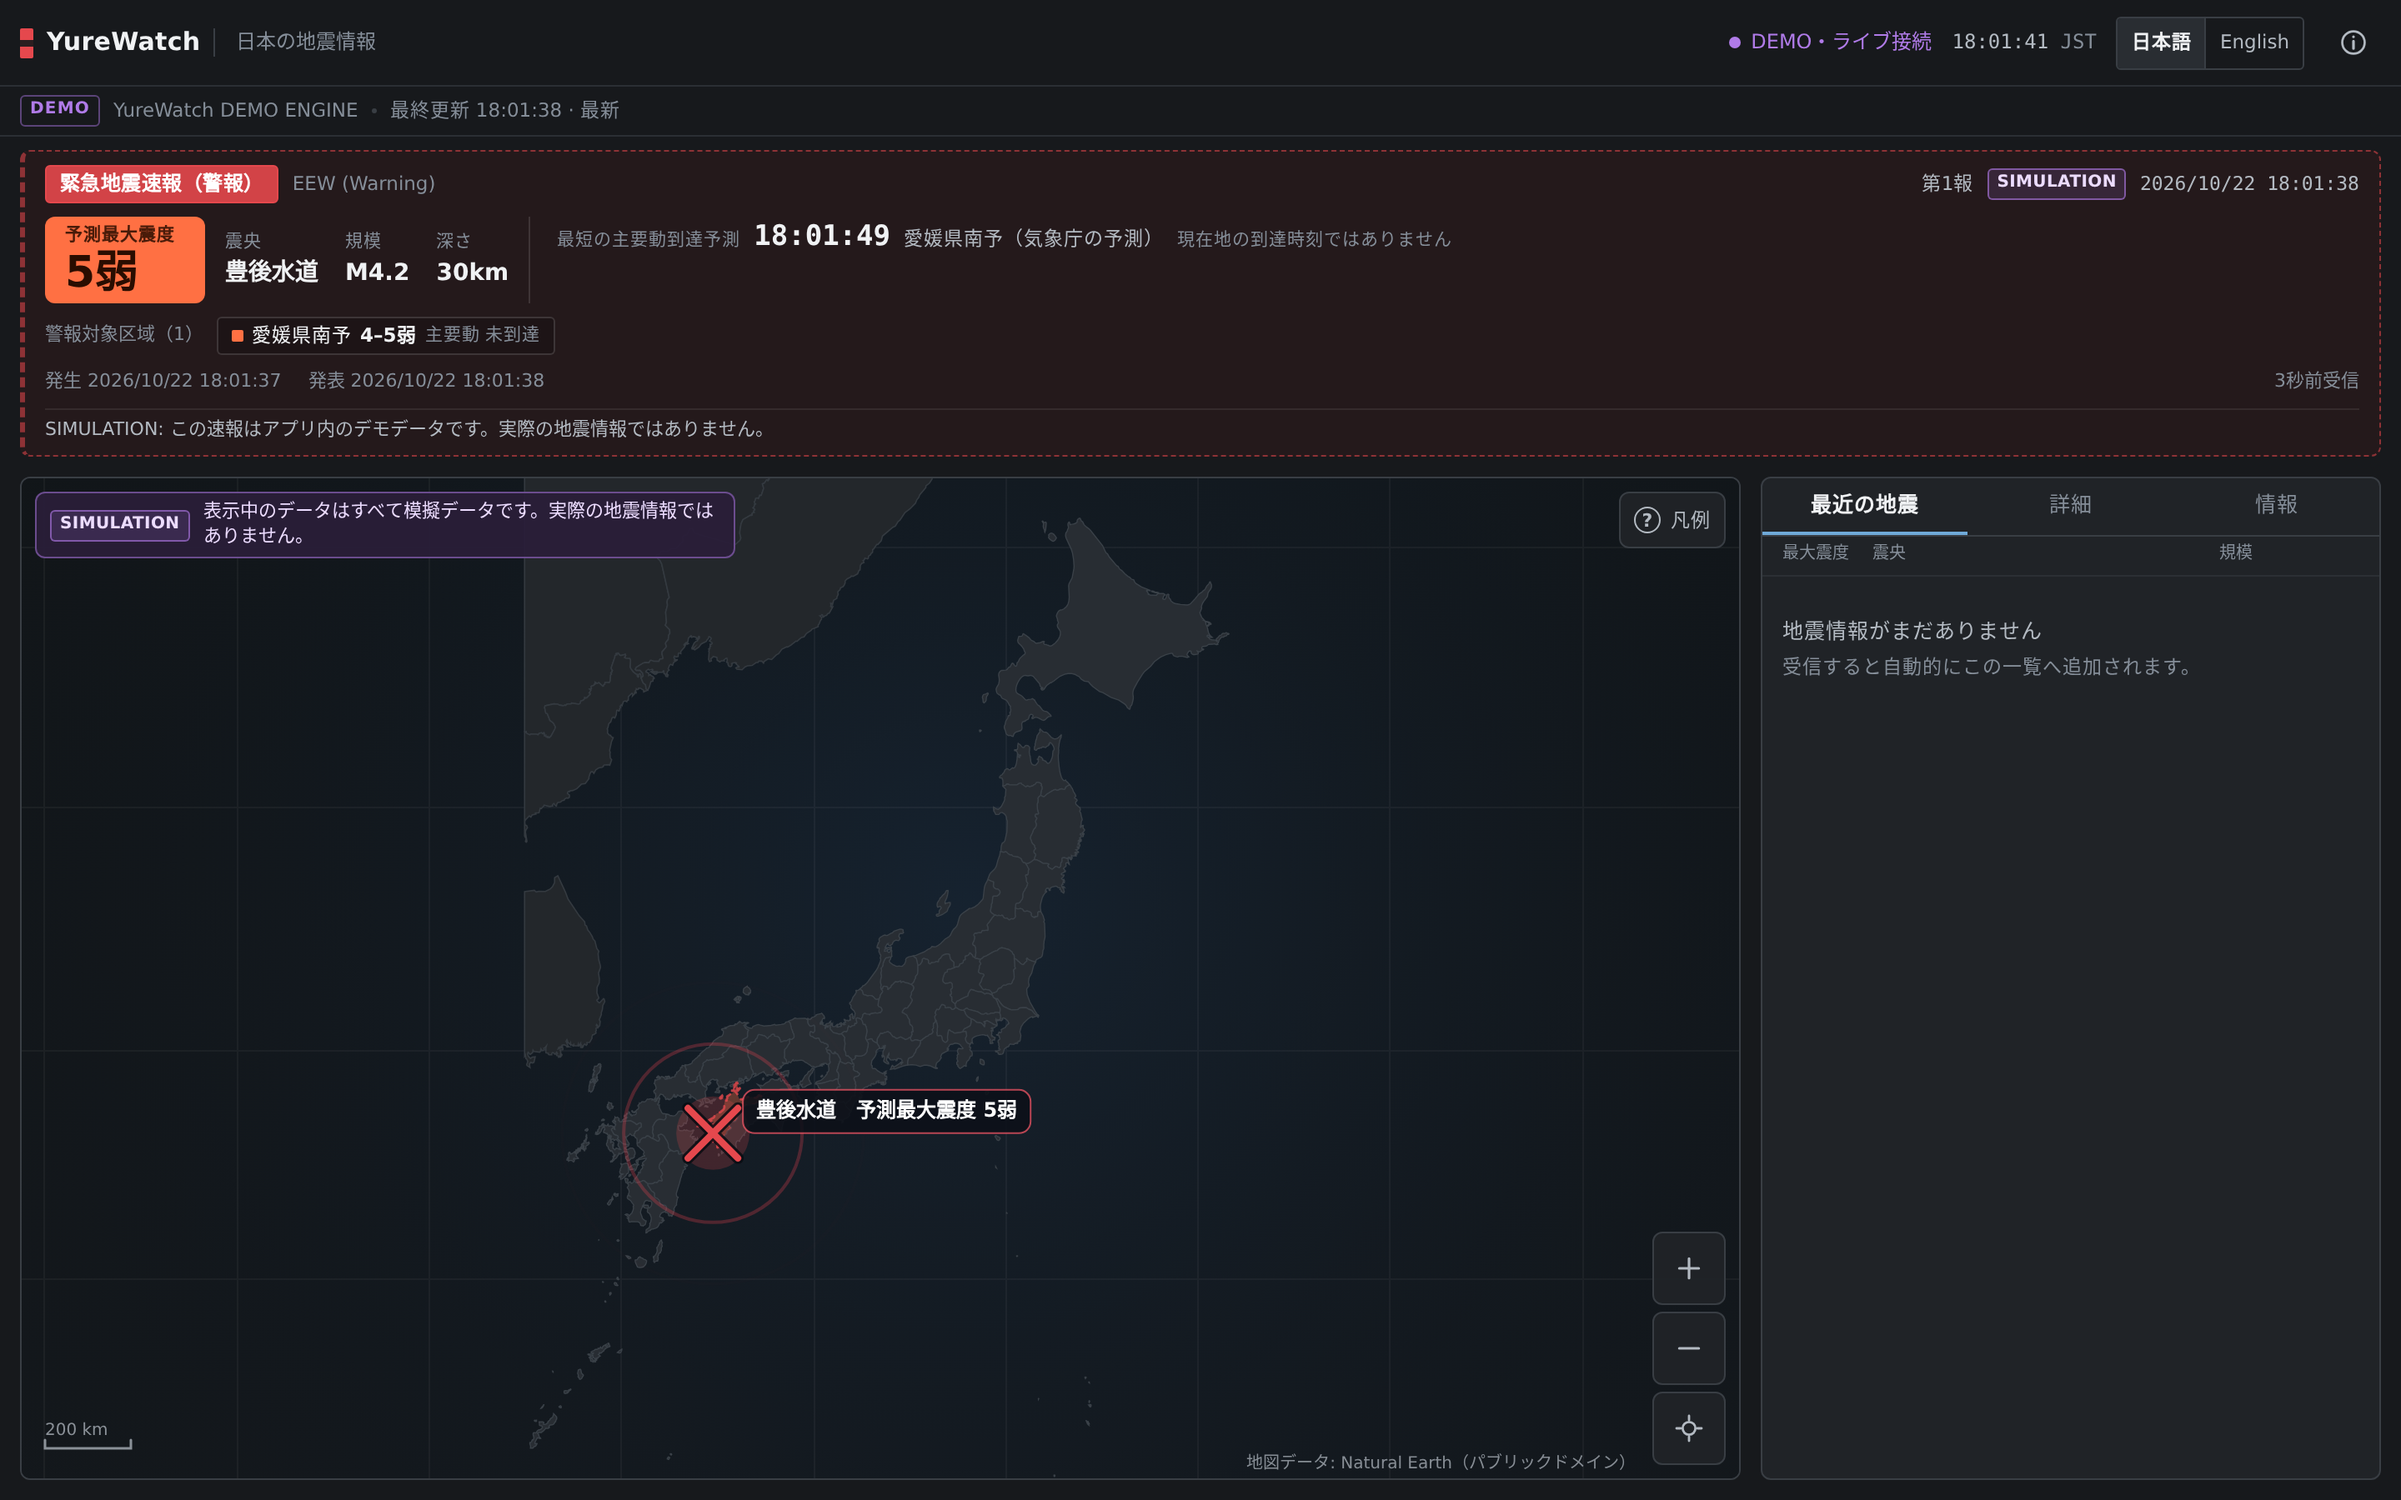
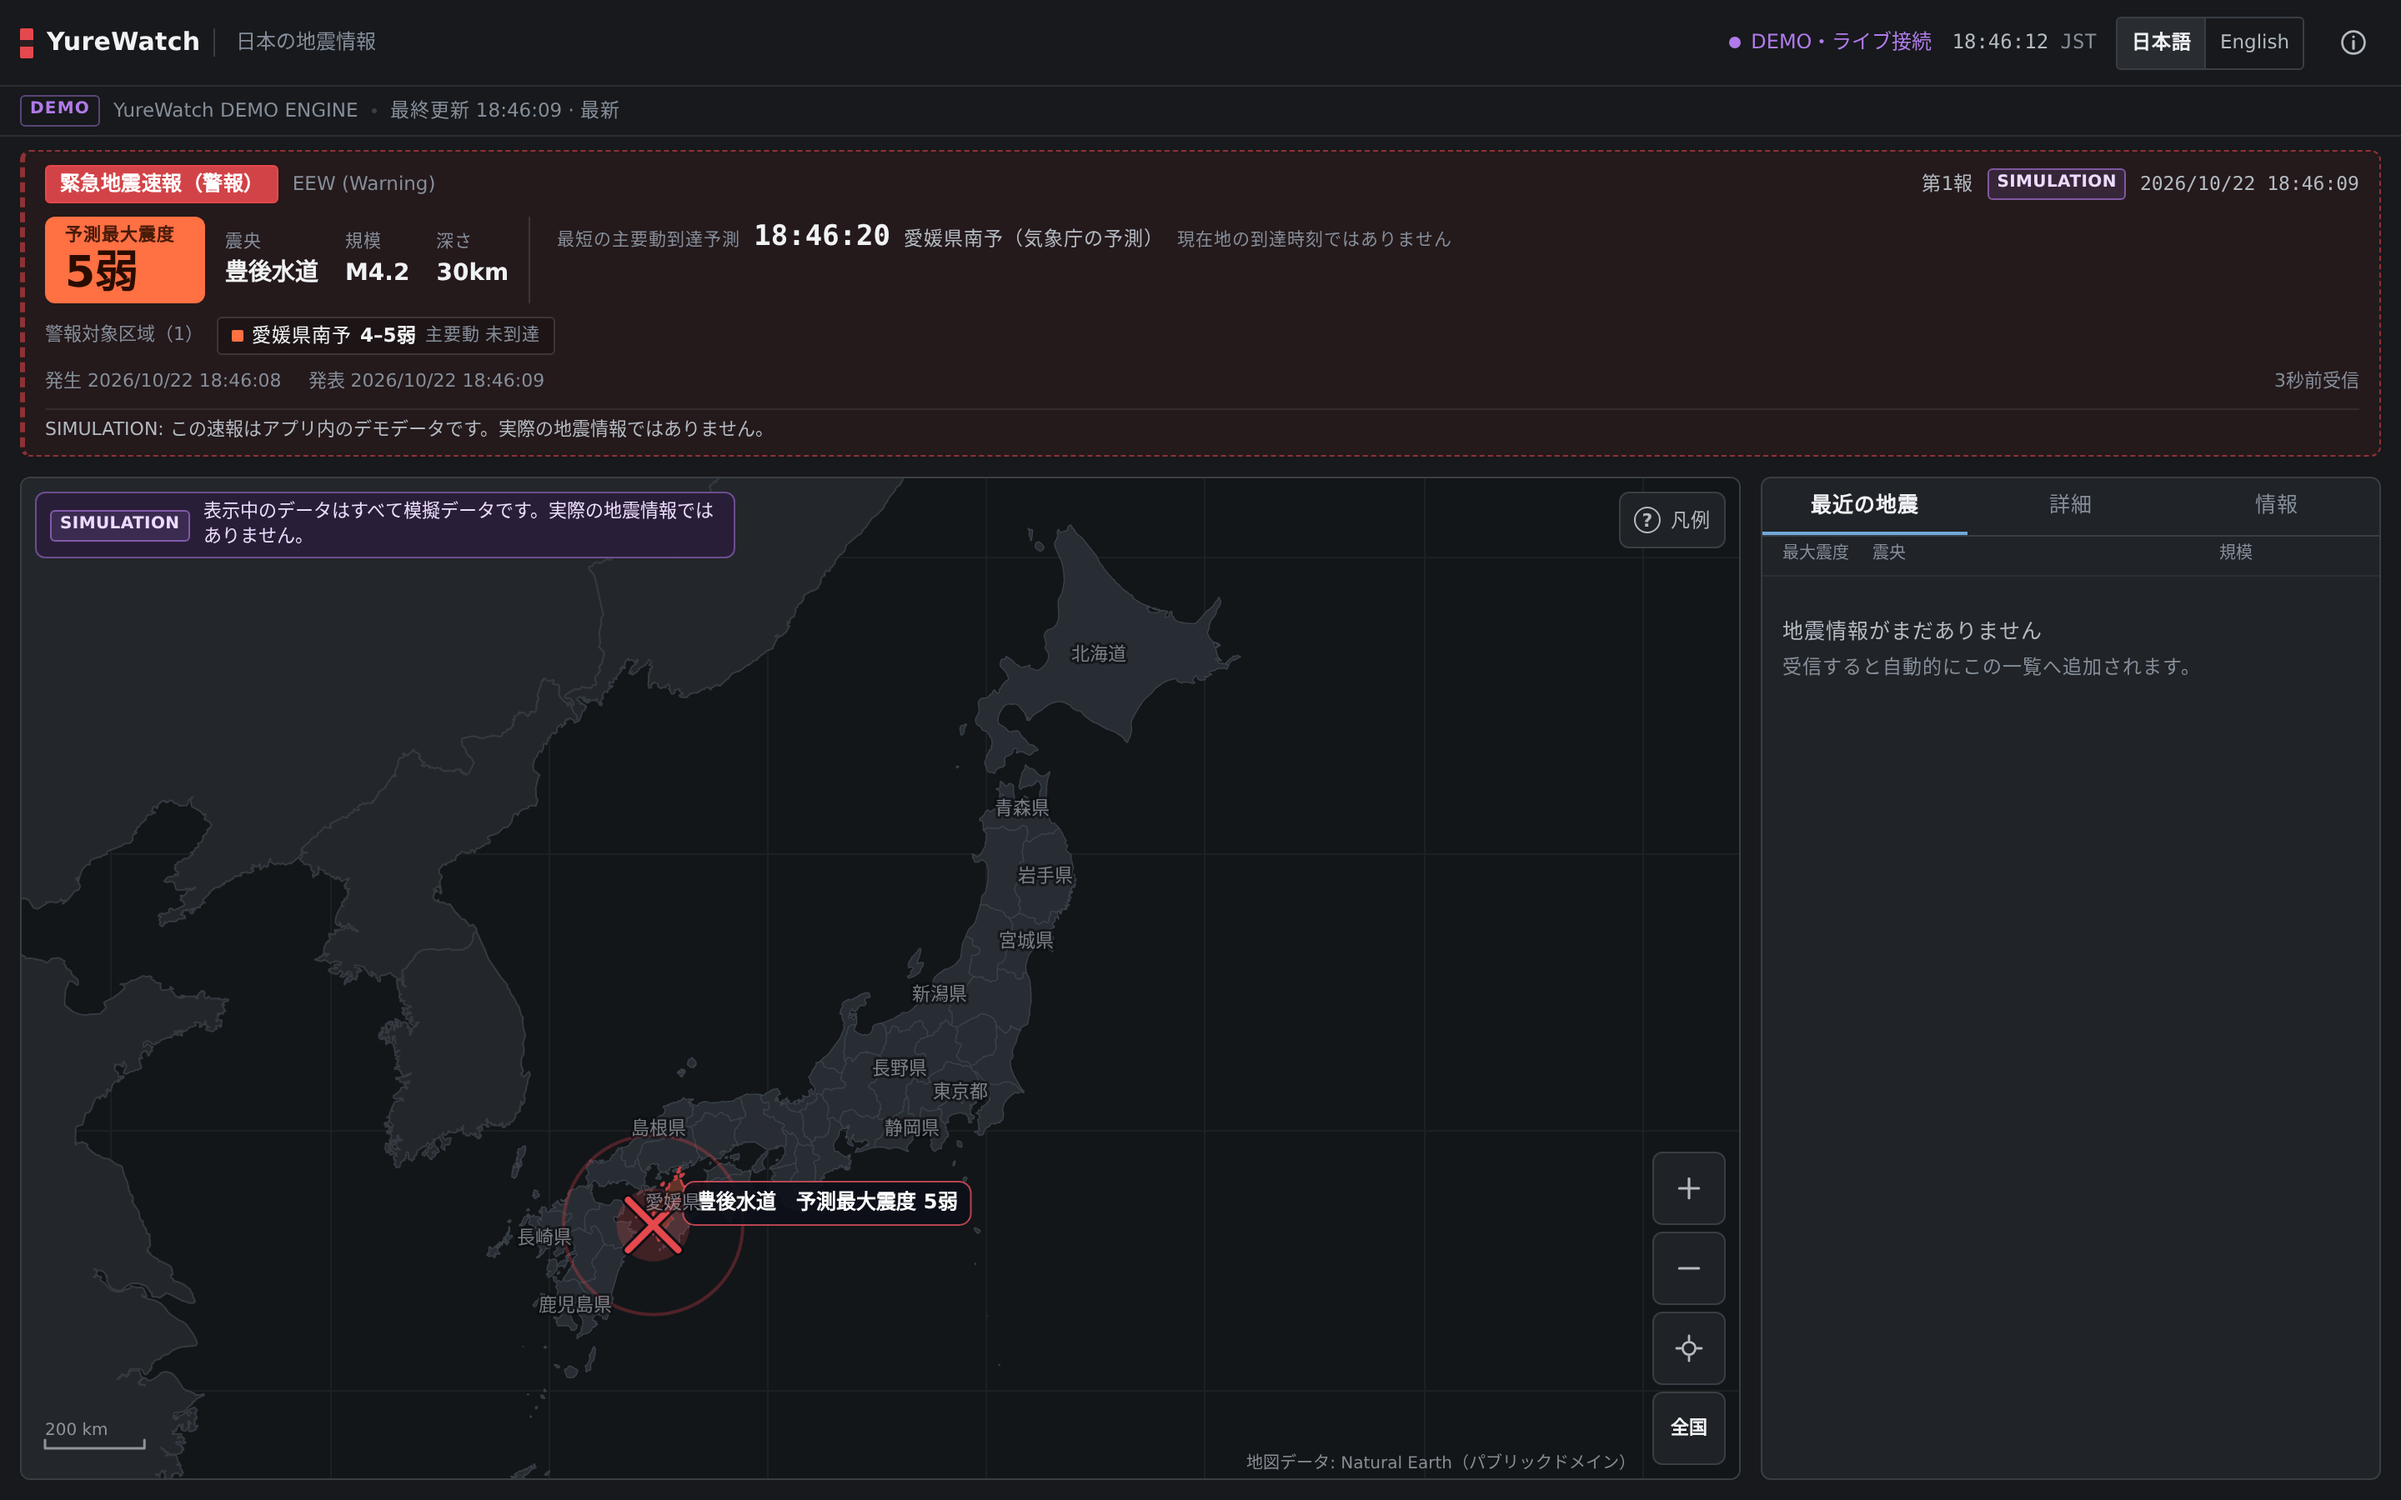
docs: record the published v0.3.0 checksum, refresh screenshots, add QA comparison
- README points at the v0.3.0 release asset with the checksum verified from the
  published file (8932f5a4...2f9e, 222,137 B, versionCode 5, embedded asset
  byte-identical to the local build).
- docs/screenshots regenerated: the committed set predated the label and framing
  work, so it showed an unlabelled map with different coverage.
- docs/qa/comparison.png: before/after at identical viewport dimensions.

diff --git a/README.md b/README.md
@@ -134,10 +134,10 @@ simulations.
 
 ### Android APK
 
-**Download the built APK (v0.2.1):**
-[yurewatch-0.2.1.apk](https://github.com/franzathome2024-hue/yurewatch/releases/download/v0.2.1/yurewatch-0.2.1.apk)
[1 lines of base64/hex data omitted]
-(also in [SHA256SUMS](https://github.com/franzathome2024-hue/yurewatch/releases/download/v0.2.1/SHA256SUMS)).
+**Download the built APK (v0.3.0):**
+[yurewatch-0.3.0.apk](https://github.com/franzathome2024-hue/yurewatch/releases/download/v0.3.0/yurewatch-0.3.0.apk)
[1 lines of base64/hex data omitted]
+(also in [SHA256SUMS](https://github.com/franzathome2024-hue/yurewatch/releases/download/v0.3.0/SHA256SUMS)).
 That checksum is for the **release asset as published by CI**. A local
 `bash tools/build-apk.sh` produces a byte-different file (different throwaway
 signing key, 181 KiB), so compare against the release not against a local build.
@@ -153,12 +153,12 @@ is reset by a reinstall.
 To build it yourself instead:
 
 ```bash
-# Build (produces build/yurewatch-0.2.1.apk)
+# Build (produces build/yurewatch-0.3.0.apk)
 npm ci
 bash tools/build-apk.sh
 
 # Install on a connected device
-adb install -r build/yurewatch-0.2.1.apk
+adb install -r build/yurewatch-0.3.0.apk
 ```
 
 The app opens directly into the map. It does **not** start a local server, ask
